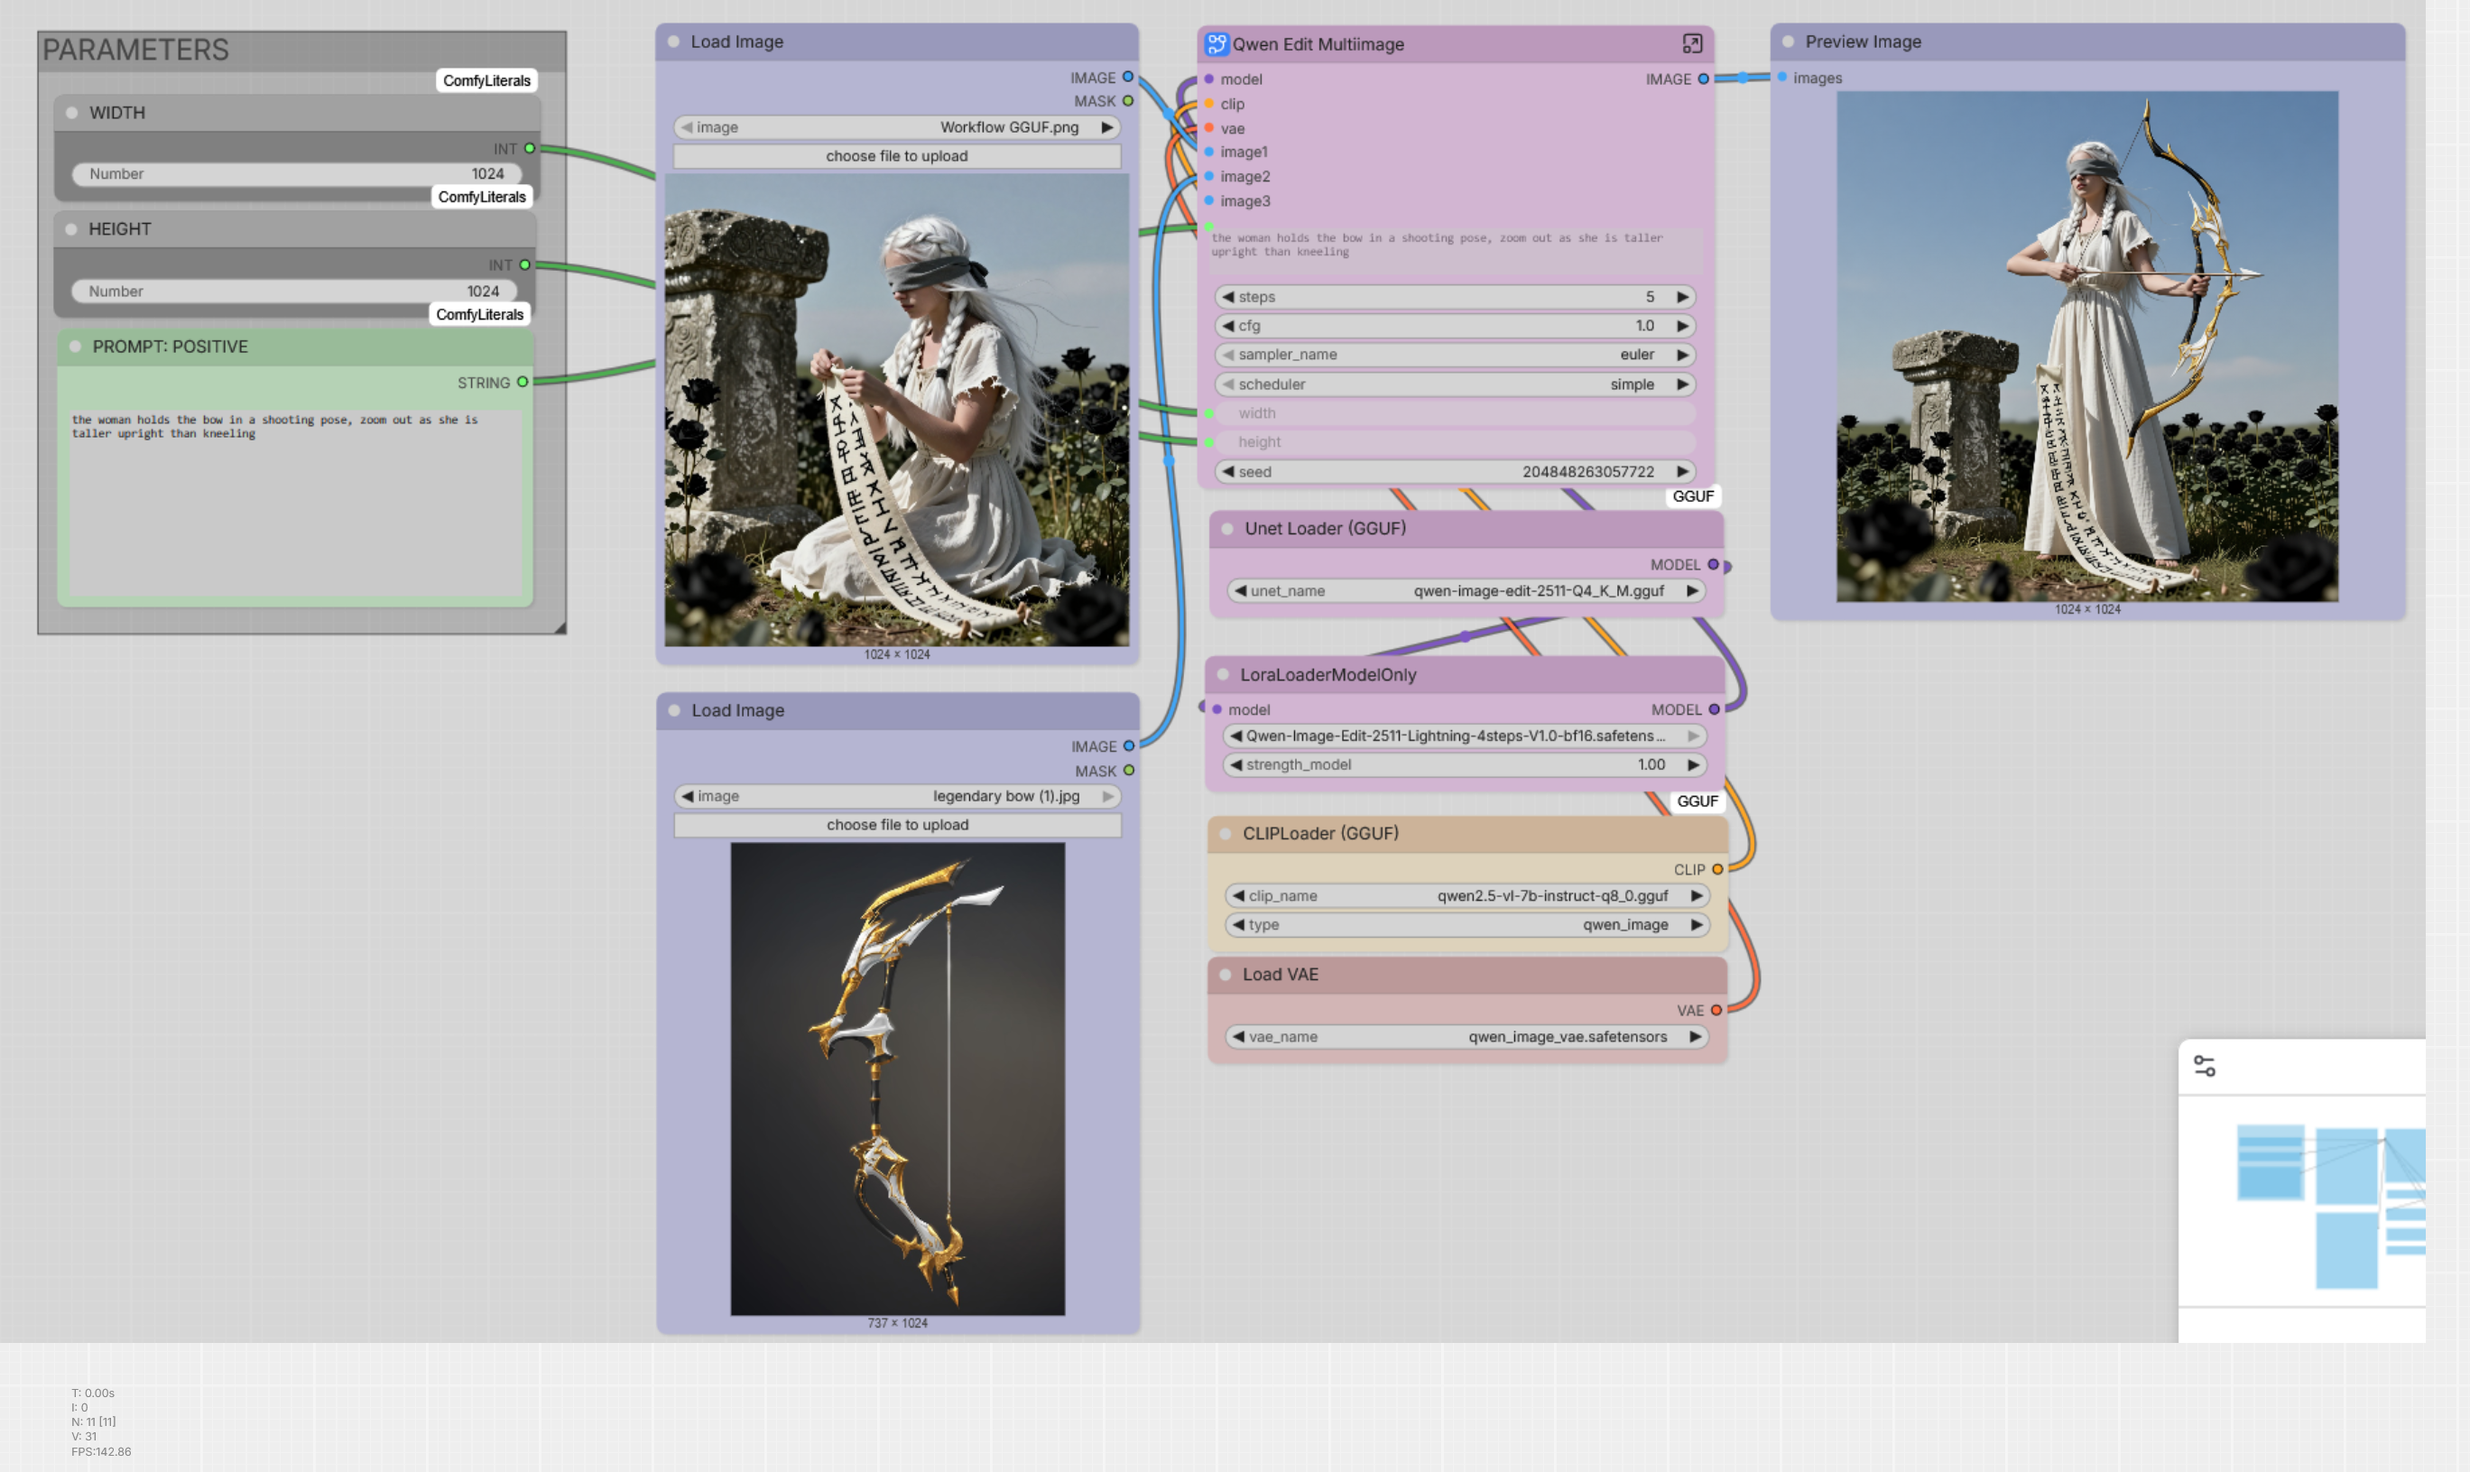
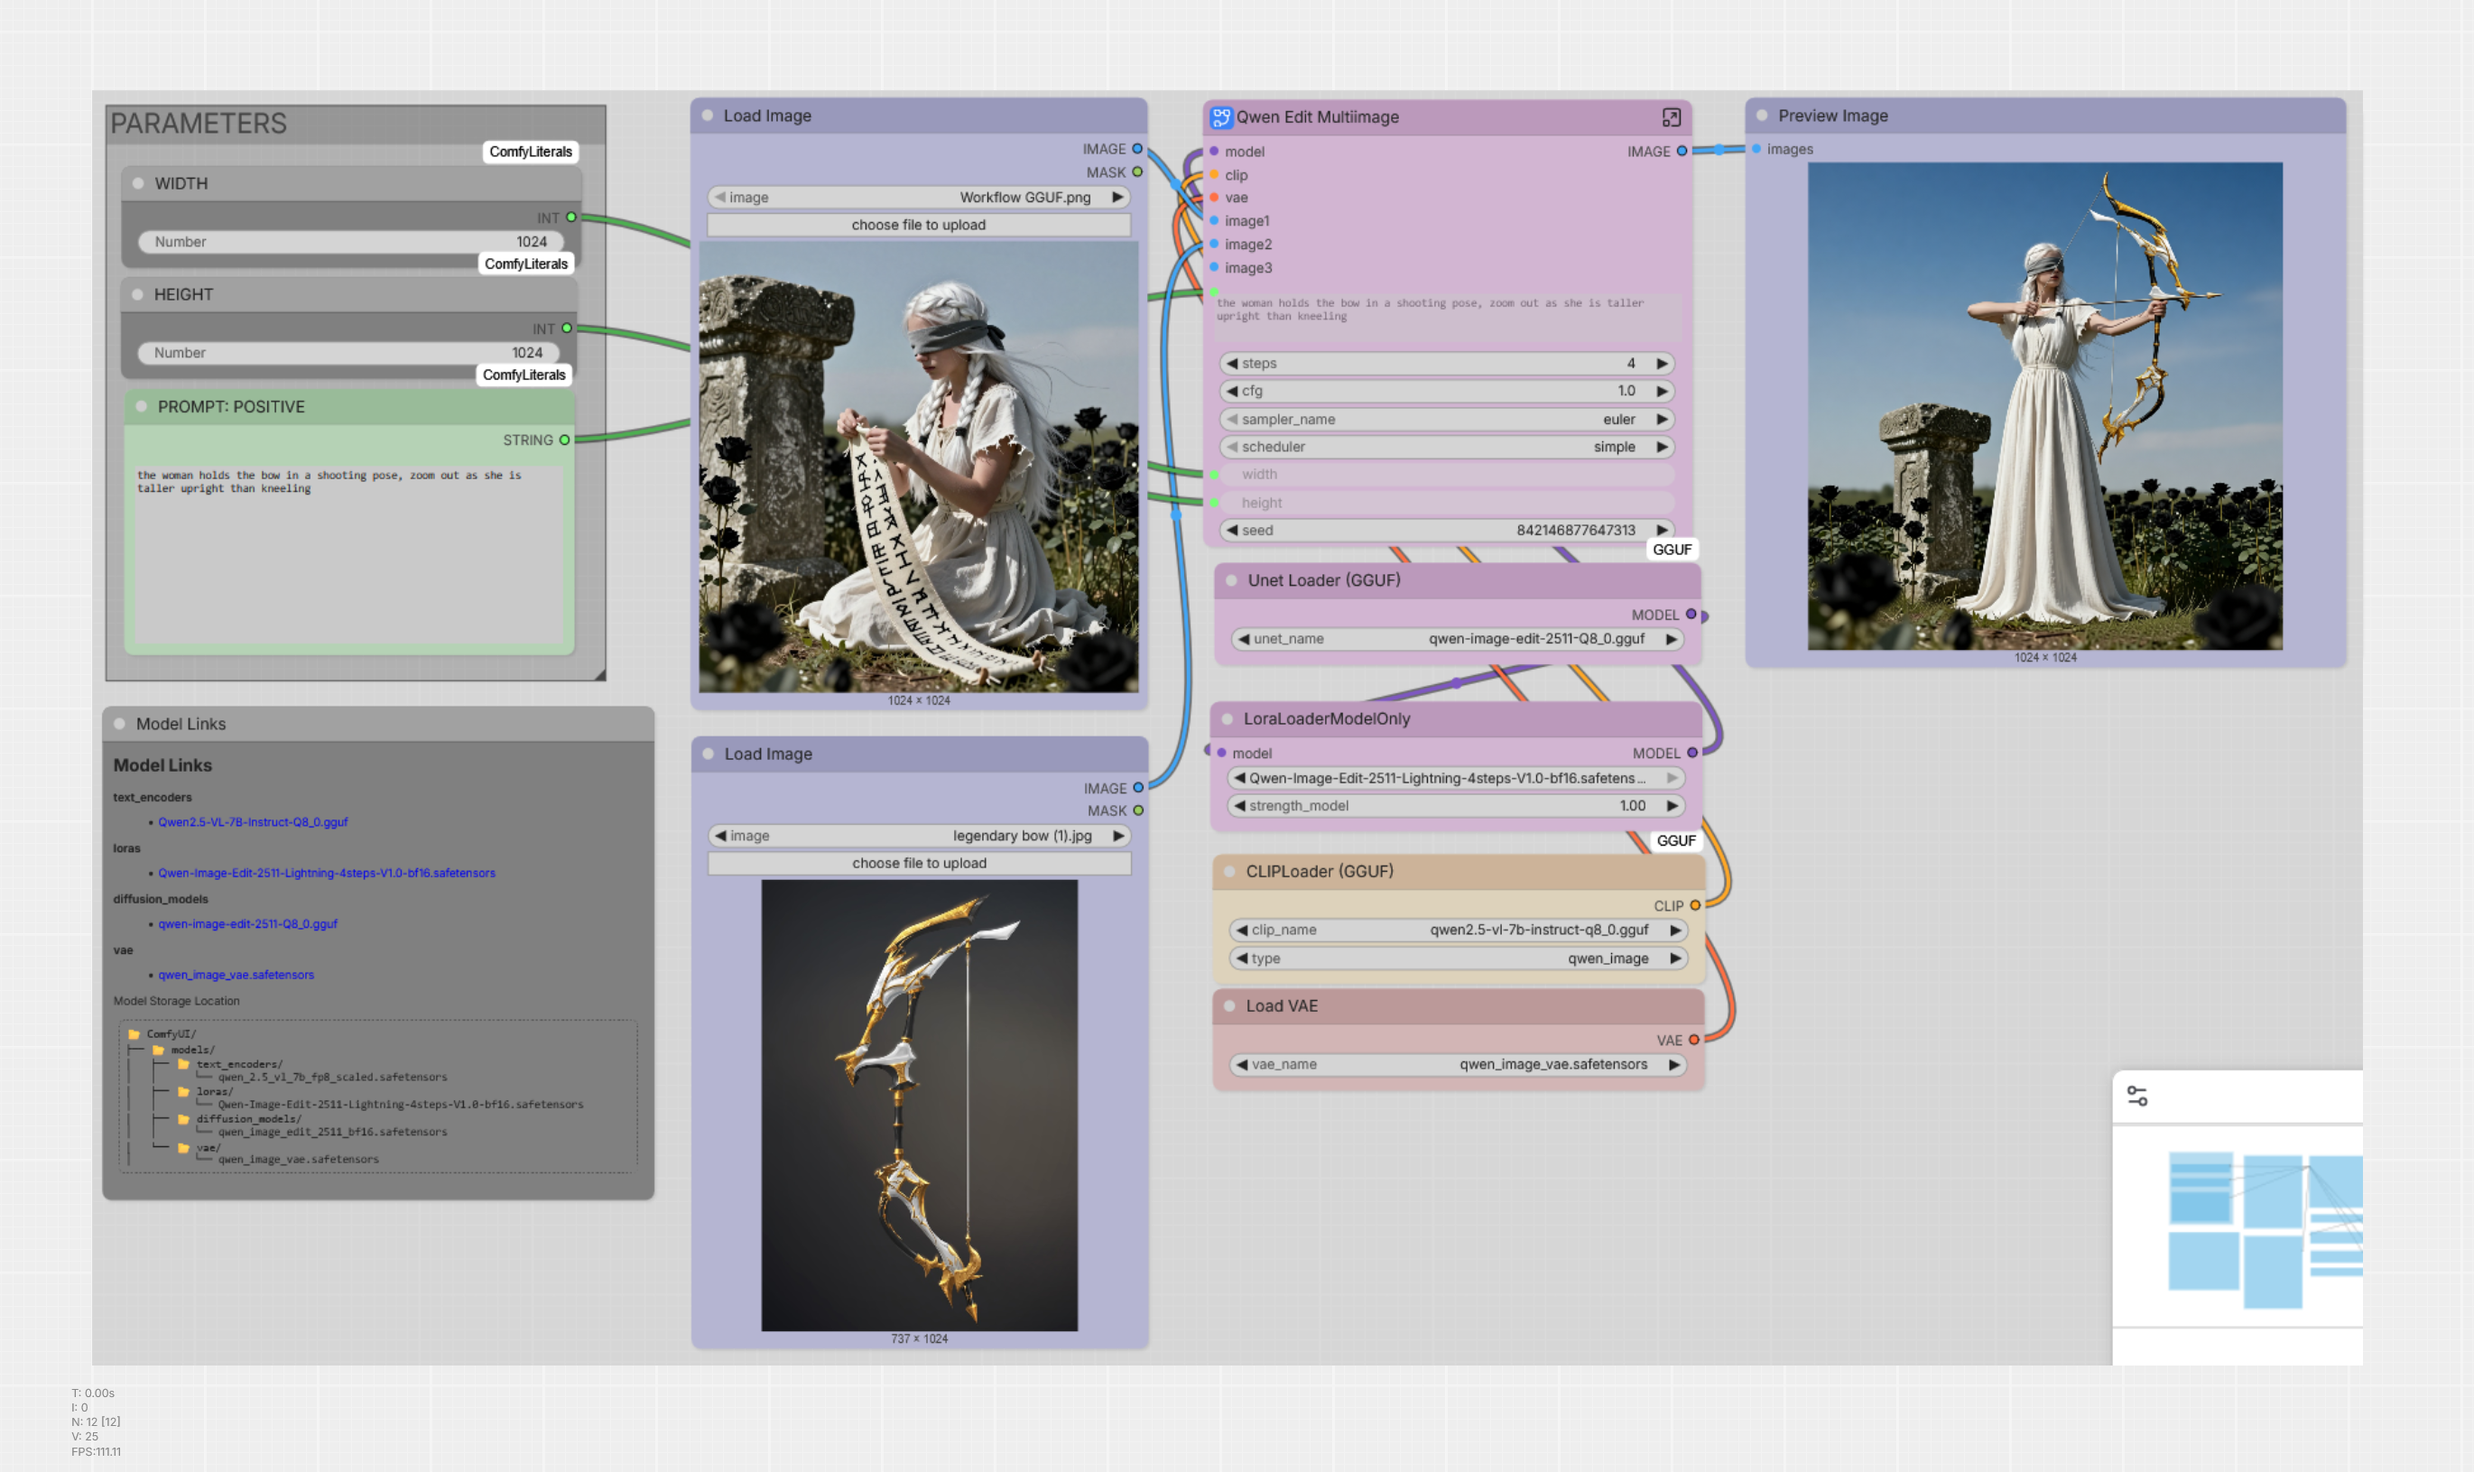
update workflow with links to the model

diff --git a/logs/2026-01-17 Trying Qwen Edit Reddit Fixes.md b/logs/2026-01-17 Trying Qwen Edit Reddit Fixes.md
@@ -427,6 +427,10 @@ loaded completely; 6203.52 MB usable, 242.03 MB loaded, full load: True
 Prompt executed in 55.01 seconds
 ```
 
+# Flag --async-offload
+
+
+
 
 
 # EOL
